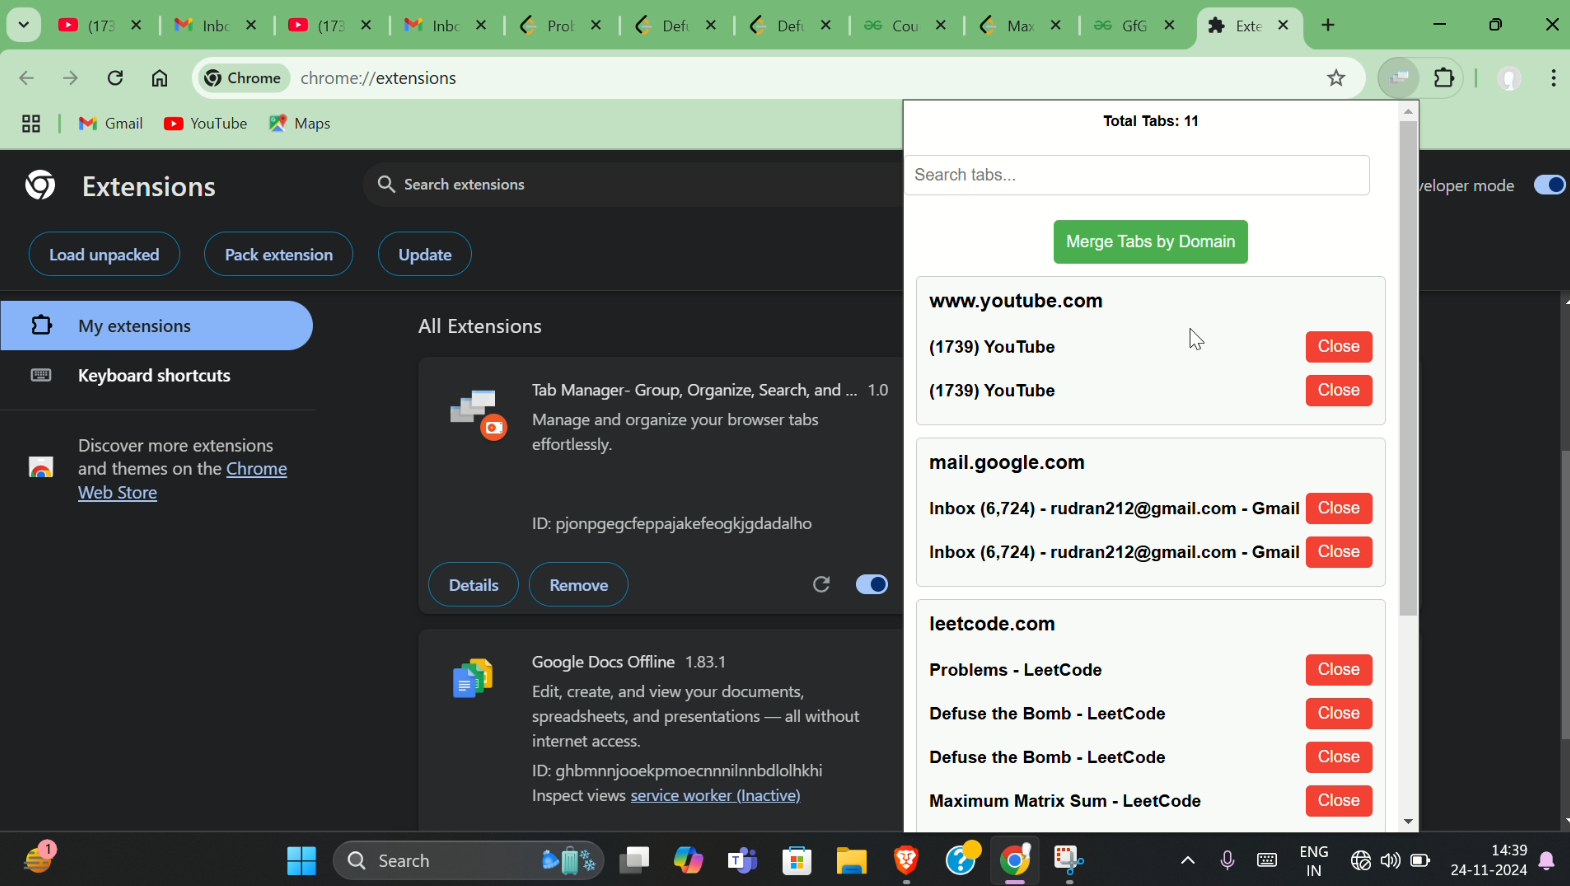
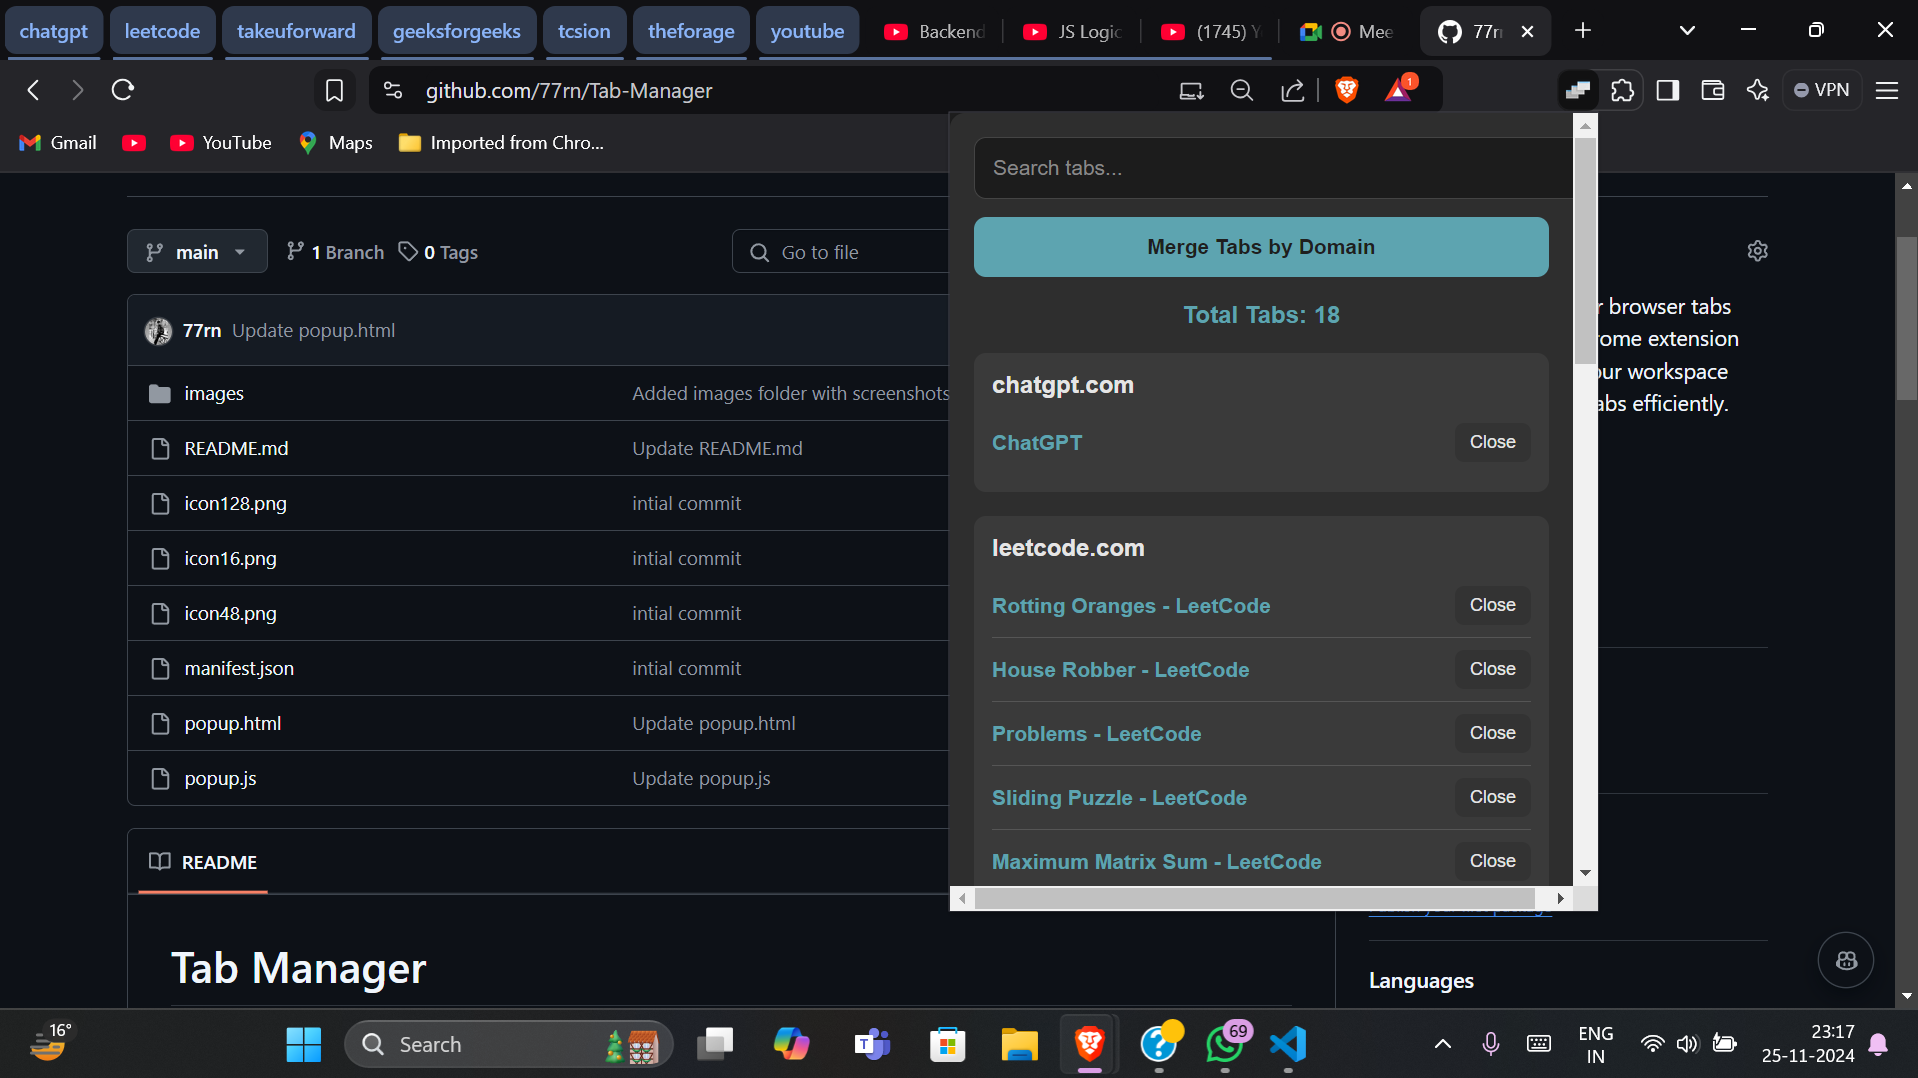
popup photo replaced

diff --git a/popup.html b/popup.html
@@ -1,87 +1,160 @@
 <!DOCTYPE html>
-<html>
+<html lang="en">
 <head>
+  <meta charset="UTF-8">
+  <meta name="viewport" content="width=device-width, initial-scale=1.0">
   <title>Tab Manager</title>
   <style>
+    /* General Layout */
     body {
-      font-family: Arial, sans-serif;
       margin: 0;
       padding: 0;
+      width: 100%;
+      font-family: 'Roboto', Arial, sans-serif;
+      background-color: #1f1f1f; /* Darker background */
+      color: #e5e5e5; /* Slightly darker text */
+      overflow: hidden;
+    }
+
+    /* Popup Container */
+    #popup-container {
       width: 400px;
-      max-height: 600px;
+      max-height: 500px;
+      padding: 16px;
+      background-color: #2e2e2e; /* Darker gray for container */
+      border-radius: 10px;
+      box-shadow: 0 4px 12px rgba(0, 0, 0, 0.5); /* Darker shadow */
       overflow-y: auto;
     }
+
+    /* Search Box */
     #search {
-      width: 90%;
-      margin: 10px auto;
-      padding: 8px;
-      border: 1px solid #ccc;
-      border-radius: 4px;
+      width: 100%; /* Same width as the merge button */
+      margin-bottom: 12px;
+      padding: 12px; /* Same padding as the merge button */
+      border: 1px solid #444;
+      border-radius: 8px;
+      background-color: #1c1c1c; /* Darker background */
+      color: #e5e5e5;
+      font-size: 14px;
     }
-    #tab-count {
+
+    #search::placeholder {
+      color: #888; /* Darker placeholder text */
+    }
+
+    /* Merge Tabs Button */
+    #merge-btn {
+      display: block;
+      width: 100%;
+      margin-bottom: 16px;
+      padding: 12px; /* Matches the padding of the search box */
+      background-color: #5da4b0; /* Darker teal */
+      color: #1f1f1f;
+      border: none;
+      border-radius: 8px;
+      font-size: 14px;
       font-weight: bold;
-      margin: 10px;
+      cursor: pointer;
       text-align: center;
+      transition: background-color 0.2s ease-in-out, transform 0.2s ease-in-out;
     }
-    .group {
-      margin: 10px;
-      padding: 10px;
-      border: 1px solid #ccc;
-      border-radius: 4px;
-      background-color: #f9f9f9;
+
+    #merge-btn:hover {
+      background-color: #478891; /* Slightly darker hover effect */
+      transform: translateY(-2px);
     }
-    .group h4 {
-      margin: 0 0 10px 0;
+
+    /* Tab Count */
+    #tab-count {
       font-size: 16px;
+      font-weight: bold;
+      margin-bottom: 16px;
+      text-align: center;
+      color: #5da4b0;
     }
+
+    /* Tab Groups */
+    .group {
+      margin-bottom: 16px;
+      padding: 12px;
+      border-radius: 8px;
+      background-color: #3a3a3a; /* Darker gray for groups */
+      transition: background-color 0.2s ease-in-out, transform 0.2s ease-in-out;
+    }
+
+    .group:hover {
+      background-color: #484848; /* Slightly darker hover effect */
+      transform: translateY(-2px); /* Subtle lift effect */
+    }
+
+    .group h4 {
+      margin: 0 0 8px 0;
+      font-size: 16px;
+      color: #e5e5e5;
+    }
+
+    /* Tabs */
     .tab {
       display: flex;
       justify-content: space-between;
       align-items: center;
-      padding: 5px 0;
+      padding: 8px 0;
+      border-bottom: 1px solid #555; /* Darker border */
     }
+
+    .tab:last-child {
+      border-bottom: none;
+    }
+
     .tab h3 {
       margin: 0;
       font-size: 14px;
+      color: #5da4b0; /* Darker teal for text */
       word-break: break-word;
       cursor: pointer;
     }
+
     .tab h3:hover {
       text-decoration: underline;
-      color: blue;
     }
+
     .tab button {
-      padding: 5px 10px;
-      background-color: #f44336;
-      color: white;
+      padding: 6px 10px;
+      background-color: #333; /* Darker button */
+      color: #e5e5e5;
       border: none;
-      border-radius: 4px;
+      border-radius: 6px;
+      font-size: 12px;
       cursor: pointer;
+      transition: background-color 0.2s ease-in-out;
     }
+
     .tab button:hover {
-      background-color: #d32f2f;
-    }
-    #merge-btn {
-      display: block;
-      margin: 10px auto;
-      padding: 10px;
-      background-color: #4caf50;
-      color: white;
-      border: none;
-      border-radius: 4px;
-      cursor: pointer;
-      text-align: center;
-    }
-    #merge-btn:hover {
-      background-color: #388e3c;
+      background-color: #555; /* Slightly darker hover effect */
     }
   </style>
 </head>
 <body>
-  <div id="tab-count"></div>
-  <input type="text" id="search" placeholder="Search tabs..." />
-  <button id="merge-btn">Merge Tabs by Domain</button>
-  <div id="tab-list"></div>
+  <div id="popup-container">
+    <input type="text" id="search" placeholder="Search tabs..." />
+    <button id="merge-btn">Merge Tabs by Domain</button>
+    <div id="tab-count">No tabs currently open</div>
+    <div id="tab-list">
+      <!-- Example Tab Group -->
+      <div class="group">
+        <h4>Example Group</h4>
+        <div class="tab">
+          <h3>Example Tab 1</h3>
+          <button>Close</button>
+        </div>
+        <div class="tab">
+          <h3>Example Tab 2</h3>
+          <button>Close</button>
+        </div>
+      </div>
+    </div>
+  </div>
   <script src="popup.js"></script>
 </body>
 </html>
